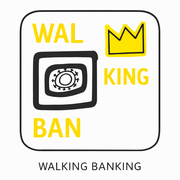
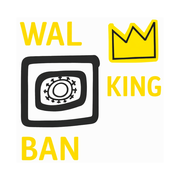
아이콘 정리: 외곽 테두리 + 하단 캡션 제거 + 재중앙
- icon-source.png: 검은 둥근 사각 테두리 + 'WALKING BANKING' 캡션 제거
- 내부 콘텐츠(WAL/BAN/KING/crown/TV)만 1024x1024 흰 캔버스 중앙에 균형 배치
- 5개 파생 아이콘(192/512/apple-touch/favicon-32/favicon.ico) 재생성
- service-worker.js 캐시 버전 v1→v2: 설치된 PWA에서 옛 아이콘 캐시 자동 무효화

diff --git a/service-worker.js b/service-worker.js
@@ -1,6 +1,6 @@
 // 주간 예산 트래커 — minimal service worker
 // 캐시 버전: index.html 또는 manifest 변경 시 v 숫자 올리면 강제 갱신
-const CACHE = 'budget-tracker-v1';
+const CACHE = 'budget-tracker-v2';
 const ASSETS = [
   './',
   './index.html',
